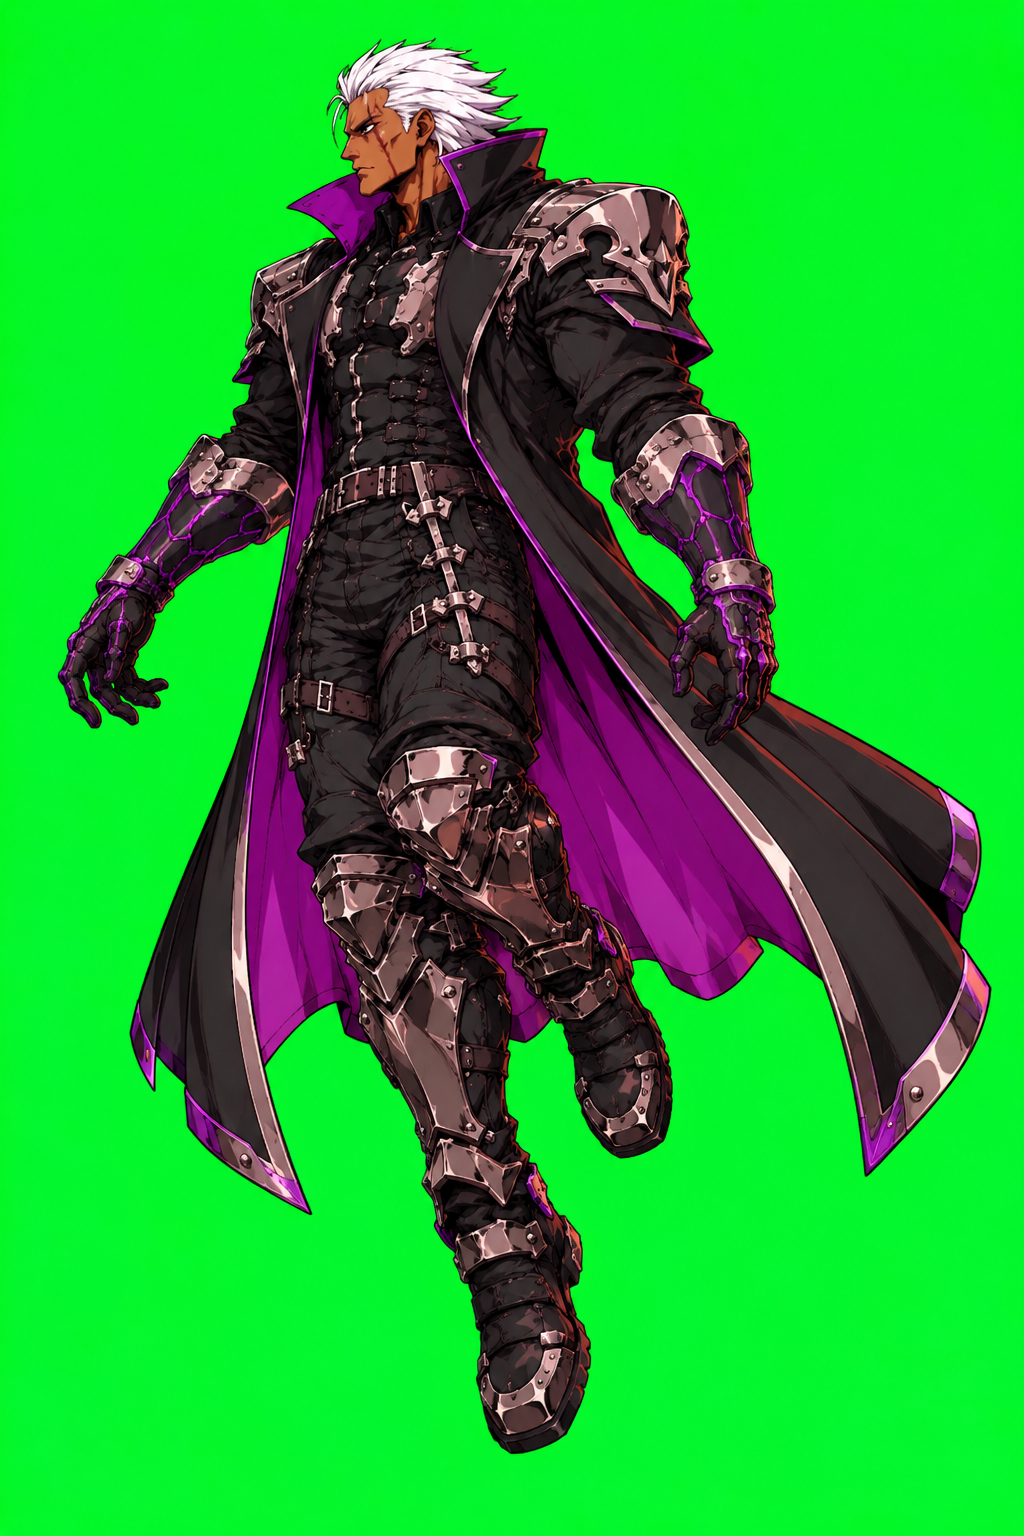
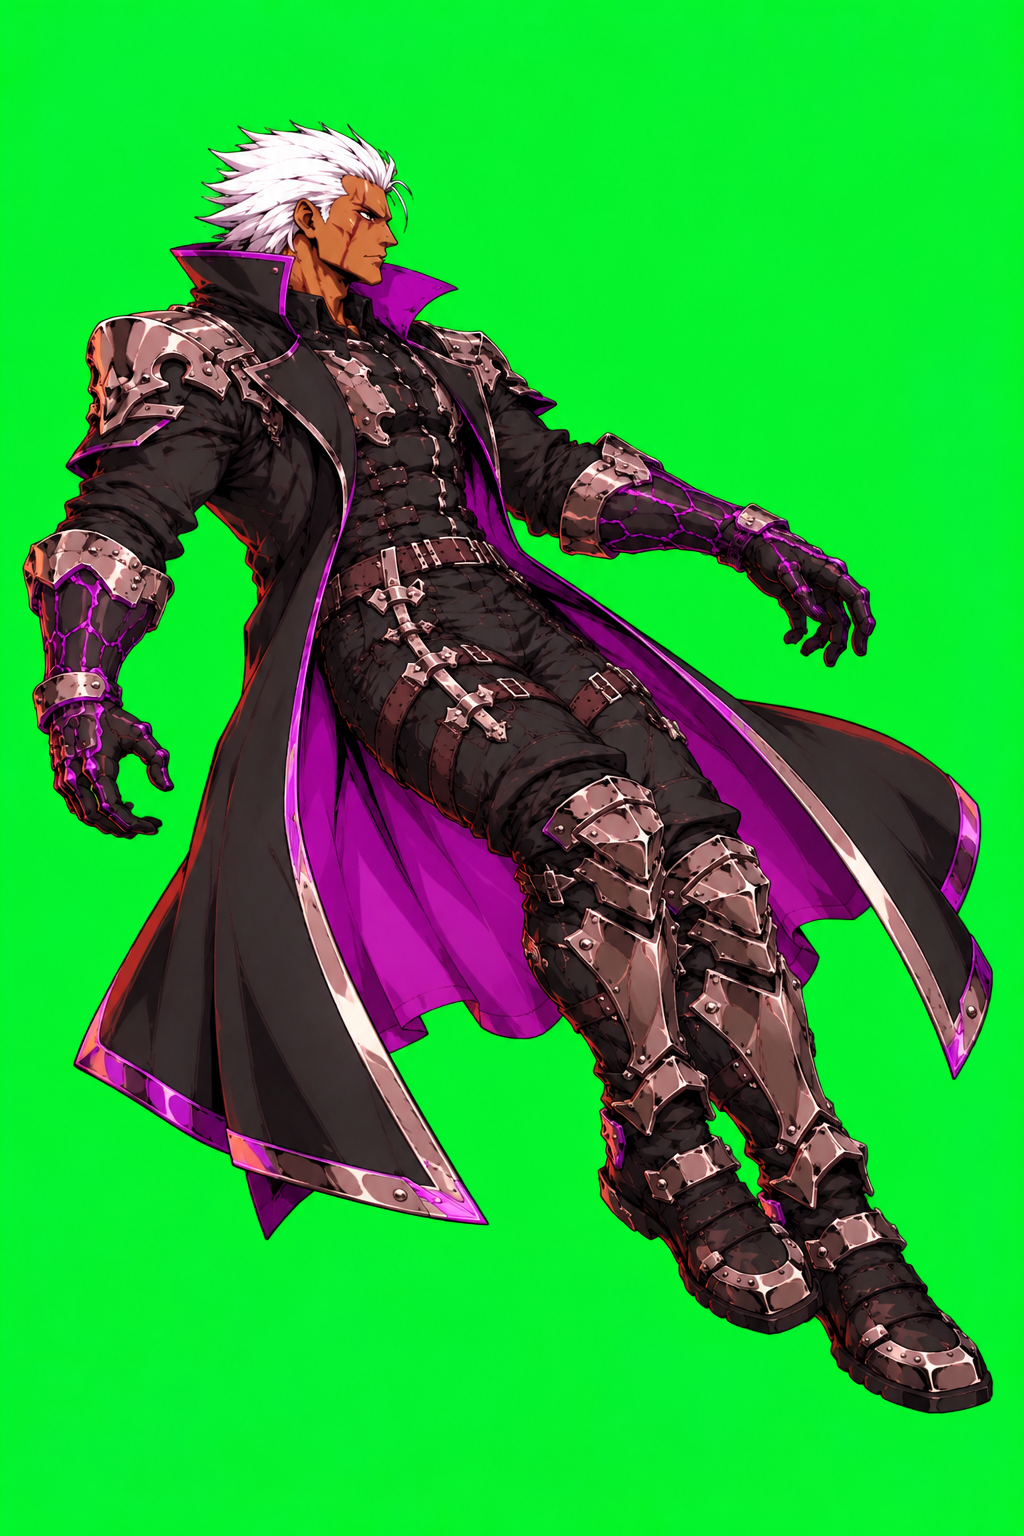
Lab : nouveau dessin de l'adversaire quand il recule, pieds en avant
L'illustration regardait vers la droite : elle est retournée en miroir pour rester face à Moussa.

Claude-Session: https://claude.ai/code/session_015fMRbsLJa9znv5DiAYkBLj

diff --git a/lab/src/game/rival/RivalLayer.ts b/lab/src/game/rival/RivalLayer.ts
@@ -23,7 +23,7 @@ const POSES = {
   // lévitation : calées sur le ceinturon de la garde, pour que le buste ne saute pas au changement de dessin ;
   // `ground` est alors le point sous le ceinturon, à hauteur du bas de la botte la plus basse
   floatForward: { file: 'rival/float-forward.webp', ground: [480, 1426], scale: 1.1 },
-  floatBack: { file: 'rival/float-back.webp', ground: [445, 1453], scale: 1.1 },
+  floatBack: { file: 'rival/float-back.webp', ground: [445, 1412], scale: 1.1 },
   // pose de passage : droite, en l'air, entre la garde et le vol, et entre l'avance et le recul
   floatStart: { file: 'rival/float-start.webp', ground: [450, 1474], scale: 1.1 },
   // téléportation : baissé, effacé dans un trait de vitesse, puis relevé
@@ -42,7 +42,7 @@ const BLOCK_STEP_SECONDS = 0.06
 
 /**
  * Déplacement en lévitation : il ne marche pas, il glisse en rasant le sol. Un seul dessin par sens
- * (`floatForward` en avançant, `floatBack` en reculant), animé en continu : il monte, flotte et redescend. Un dessin
+ * (`floatForward` penché vers Moussa en avançant, `floatBack` pieds en avant en reculant), animé en continu : il monte, flotte et redescend. Un dessin
  * de passage (`floatStart`) s'affiche `bridge` secondes au décollage et au changement de sens, et pendant qu'il se repose.
  * `forward`, `back` : vitesse, en largeurs d'écran par seconde ; `accel` : vitesse de mise en route et de freinage ;
  * `height` : hauteur de vol, en pixels de la toile ; `bob` et `period` : flottement (pixels, secondes) ;

diff --git a/lab/docs/ARCHITECTURE.md b/lab/docs/ARCHITECTURE.md
@@ -191,7 +191,7 @@ Au repos, le dessin est coupé en deux rectangles : le socle, immobile, et le bu
 
 `RivalLayer` (`src/game/rival/RivalLayer.ts`) est l'adversaire, un personnage original tourné vers la gauche. Il a sa garde (pose neutre, main ouverte levée), sa marche, sa parade et son coup encaissé (`../art/rival-*.png`, préparées par `tools/prepare_rival.py`), un dessin par pose, chacun avec son point posé au sol et son échelle (`POSES`). La garde et la marche sont agrandies de 10 % : il dépasse Moussa d'une demi-tête. La parade et le coup encaissé sont encore les anciens dessins, à refaire au nouveau modèle. Il respire en s'étirant depuis le sol et, quand il encaisse un coup, il affiche le dessin du coup reçu puis celui du retour, en penchant légèrement en arrière comme un ressort (`HIT`). Il n'attaque pas encore.
 
-**Son déplacement** est une lévitation (`FLOAT`, `float`) : il ne marche pas, il s'élève légèrement et glisse. Un seul dessin par sens (`floatForward` penché vers l'avant pour avancer, `floatBack` droit pour reculer), animé en continu par le moteur : accélération et freinage en douceur, montée à `FLOAT.height` (il rase le sol), flottement sinusoïdal, inclinaison dans le sens du déplacement, ombre qui rétrécit et reflet qui pâlit. Il se repose en garde à l'arrêt. Au décollage, au changement de sens et pendant qu'il se repose, un dessin de passage (`floatStart`, droit, en l'air) s'affiche `FLOAT.bridge` secondes ; les dessins s'enchaînent sans fondu (un fondu rendait le personnage transparent un instant). Démarrage et arrêt sont rapides (`accel`, `rise`, `land`). Ces dessins sont calés sur le ceinturon de la garde, pour que le buste ne saute pas. Une première version en pas chassés, à quatre dessins qui alternaient, a été abandonnée : elle saccadait.
+**Son déplacement** est une lévitation (`FLOAT`, `float`) : il ne marche pas, il s'élève légèrement et glisse. Un seul dessin par sens (`floatForward` penché vers l'avant pour avancer, `floatBack` pieds en avant pour reculer), animé en continu par le moteur : accélération et freinage en douceur, montée à `FLOAT.height` (il rase le sol), flottement sinusoïdal, inclinaison dans le sens du déplacement, ombre qui rétrécit et reflet qui pâlit. Il se repose en garde à l'arrêt. Au décollage, au changement de sens et pendant qu'il se repose, un dessin de passage (`floatStart`, droit, en l'air) s'affiche `FLOAT.bridge` secondes ; les dessins s'enchaînent sans fondu (un fondu rendait le personnage transparent un instant). Démarrage et arrêt sont rapides (`accel`, `rise`, `land`). Ces dessins sont calés sur le ceinturon de la garde, pour que le buste ne saute pas. Une première version en pas chassés, à quatre dessins qui alternaient, a été abandonnée : elle saccadait.
 
 **Son dash avant** est une téléportation (`TELEPORT`, `teleport`), à la manière de Doom : il se baisse (`teleportCrouch`), s'efface dans un trait de vitesse (`teleportStreak`), disparaît un instant en laissant une image rémanente qui s'étire et s'estompe, réapparaît `TELEPORT.distance` plus loin (sans traverser Moussa, avec une marge, car baissé sa main dépasse), dans le trait de vitesse puis baissé, et se relève (`teleportRise`). Un coup l'interrompt. Son dash arrière est la même téléportation, en s'éloignant de Moussa de la même distance (sans sortir du stage, sans changement de côté). Pour l'instant, seul le joueur qui le contrôle peut les déclencher (deux appuis rapides vers Moussa, ou à l'opposé).
 

diff --git a/lab/docs/ASSETS.md b/lab/docs/ASSETS.md
@@ -74,7 +74,7 @@ python3 tools/prepare_rival.py
 
 Le script lit tous les `../art/rival-*.png` (personnage tourné vers la gauche, mêmes contraintes que les poses du personnage), retire le fond vert et écrit une image par pose dans `public/assets/rival/`. Il affiche aussi l'étendue des appuis et le bord avant du corps, qui servent à régler le point posé au sol, `surface` et `gap` dans `src/game/rival/RivalLayer.ts`.
 
-Pour la lévitation, `rival-float-forward.png` (penché vers l'avant, pour avancer) et `rival-float-back.png` (droit, pour reculer) et `rival-float-start.png` (pose de passage, droite, en l'air). Pour la téléportation : `rival-teleport-crouch.png`, `rival-teleport-streak.png` (le même, dans un trait de vitesse) et `rival-teleport-rise.png`. `tools/prepare_rival.py` estompe les dessins coupés par le bord droit de l'illustration (`EDGE_FADE`) : leur point `ground` dans `POSES` est pris sous le ceinturon, à la même place que dans la garde, et à hauteur du bas de la botte la plus basse.
+Pour la lévitation, `rival-float-forward.png` (penché vers l'avant, pour avancer) et `rival-float-back.png` (pieds en avant, pour reculer ; l'illustration regardait vers la droite, elle est retournée en miroir) et `rival-float-start.png` (pose de passage, droite, en l'air). Pour la téléportation : `rival-teleport-crouch.png`, `rival-teleport-streak.png` (le même, dans un trait de vitesse) et `rival-teleport-rise.png`. `tools/prepare_rival.py` estompe les dessins coupés par le bord droit de l'illustration (`EDGE_FADE`) : leur point `ground` dans `POSES` est pris sous le ceinturon, à la même place que dans la garde, et à hauteur du bas de la botte la plus basse.
 
 ## Décor : `tools/prepare_stage.py`
 
